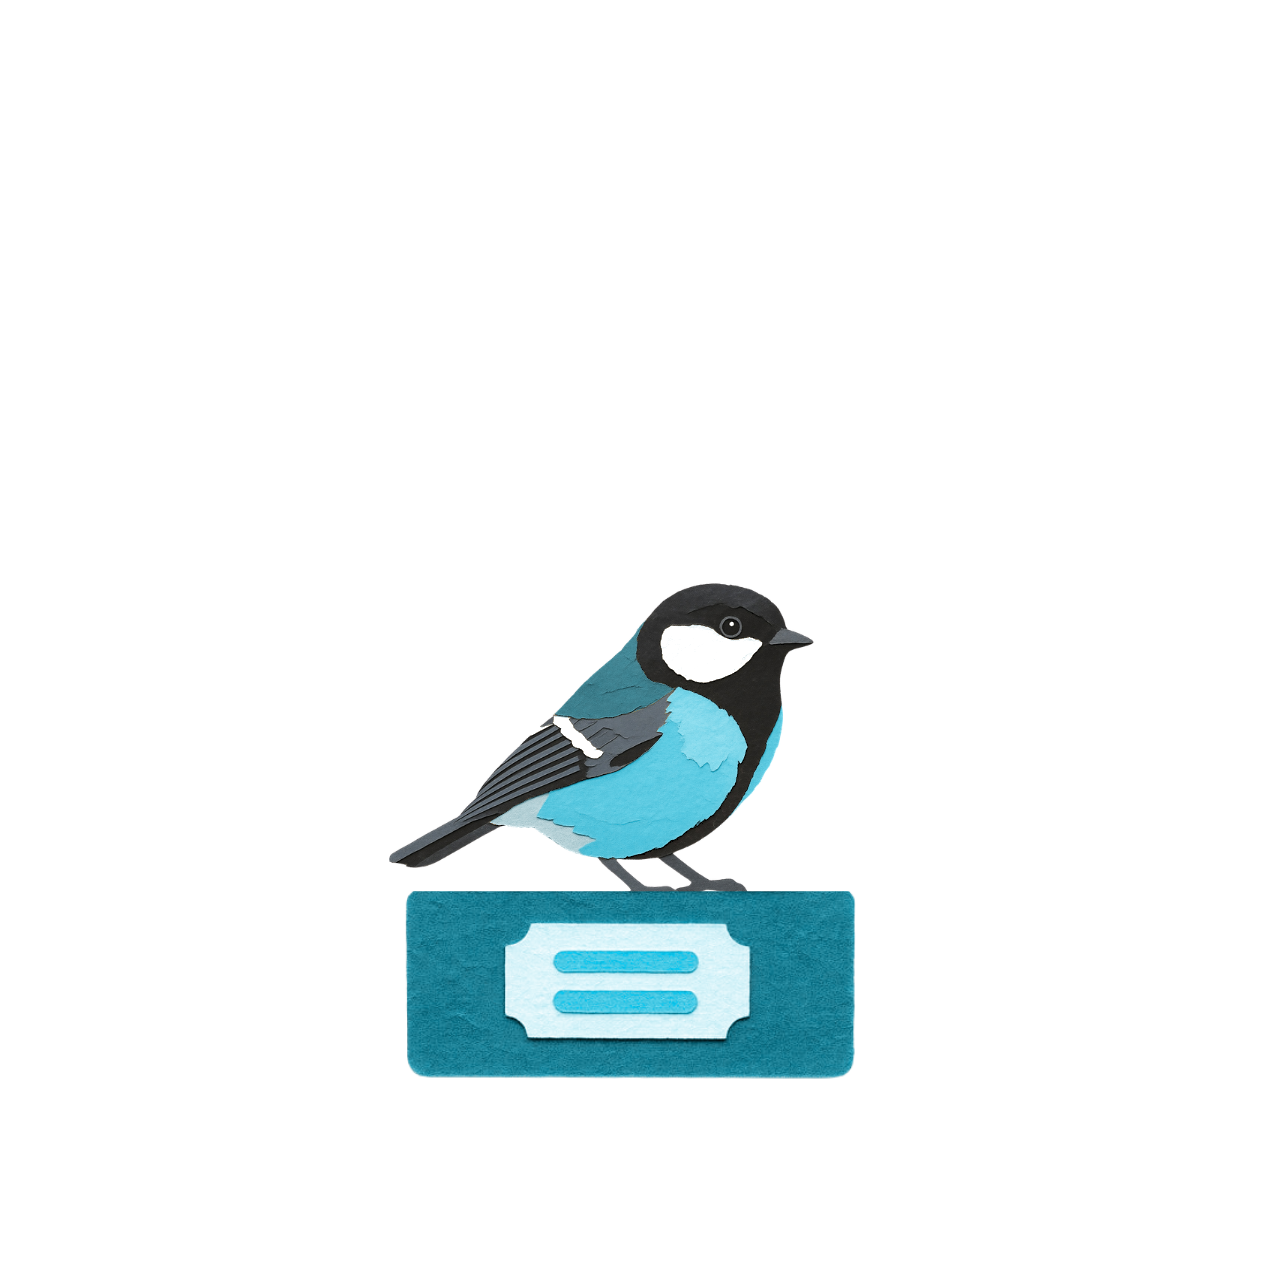
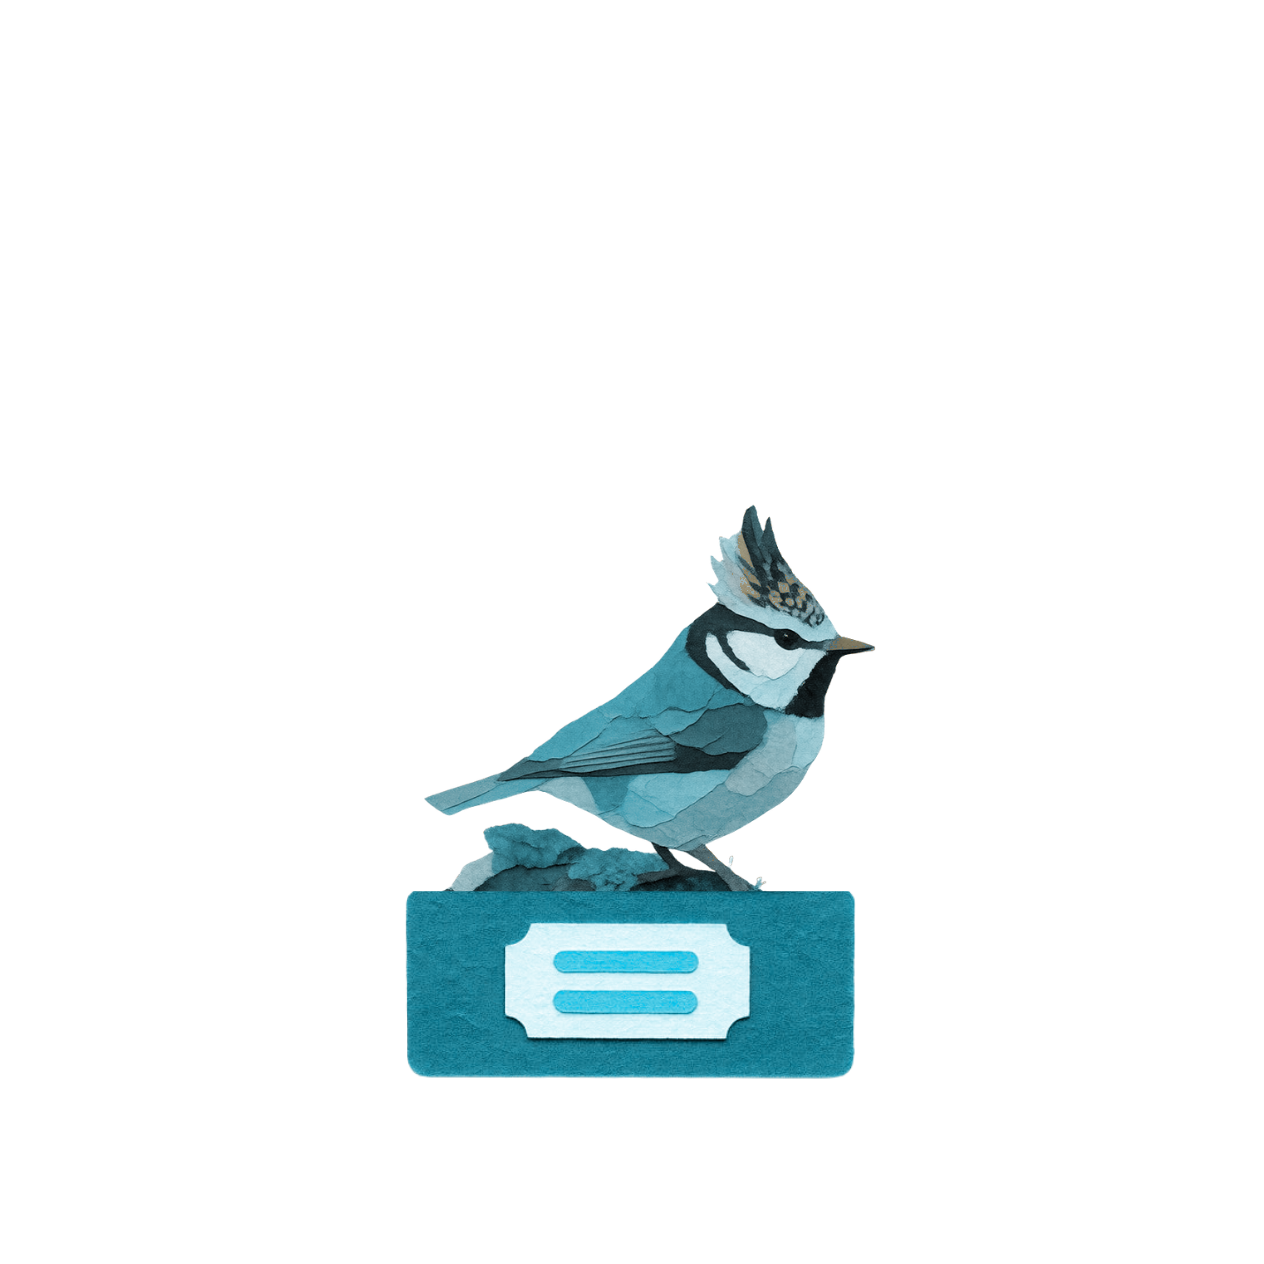
Trophee Mesanges : 6 nouveaux visuels papier-craft Canva (v2). Cache v170.

Changed region(s): [[0.3085, 0.4011, 0.7097, 0.7097]]

diff --git a/service-worker.js b/service-worker.js
@@ -3,7 +3,7 @@
 //   puis rafraichit en background. Prochain reload = nouvelle version.
 // - Requetes cross-origin (Firestore, iNaturalist, xeno-canto, Wikipedia, etc.) : reseau seul.
 // - Bump CACHE_VERSION quand on veut invalider volontairement.
-const CACHE_VERSION = 'v169-2026-09-15-modal-wider-tiles-compact';
+const CACHE_VERSION = 'v170-2026-09-15-paridae-visuel-v2';
 const CACHE_NAME = 'lmb-' + CACHE_VERSION;
 
 self.addEventListener('install', (e) => {
